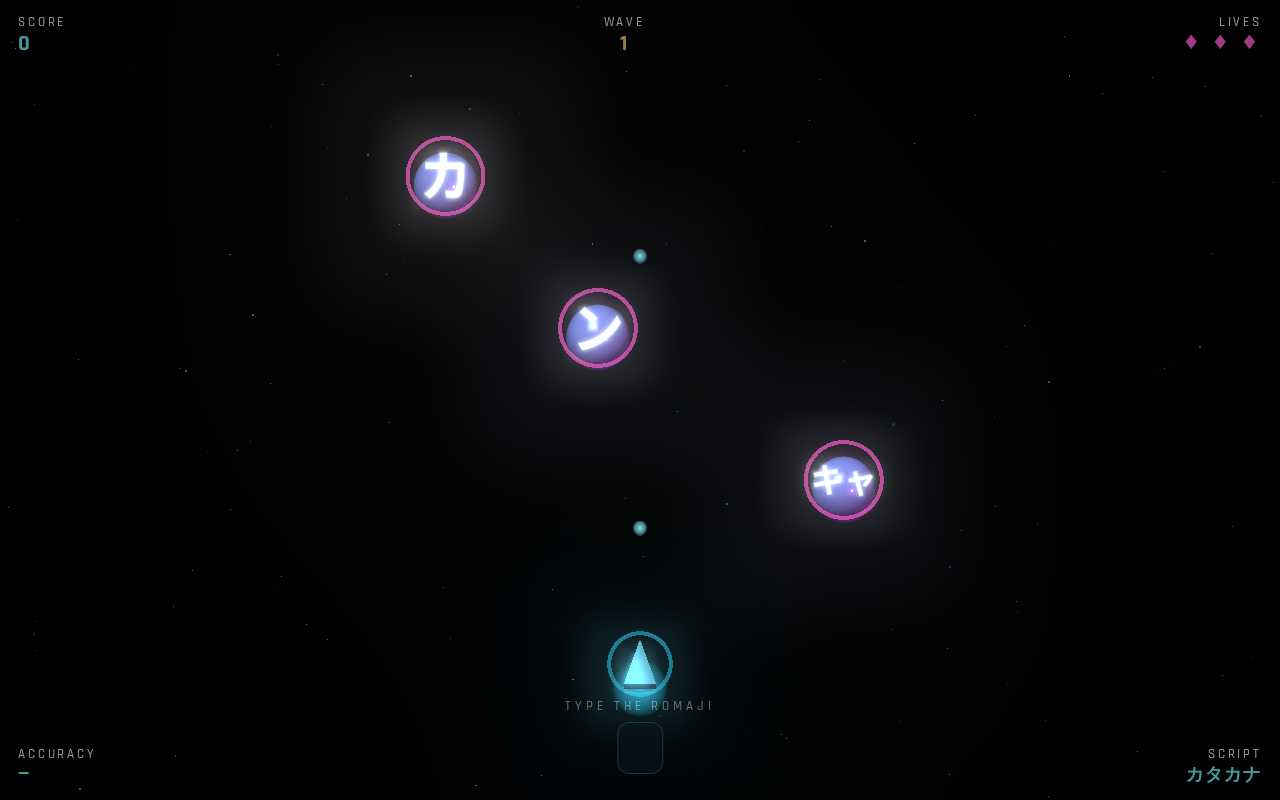
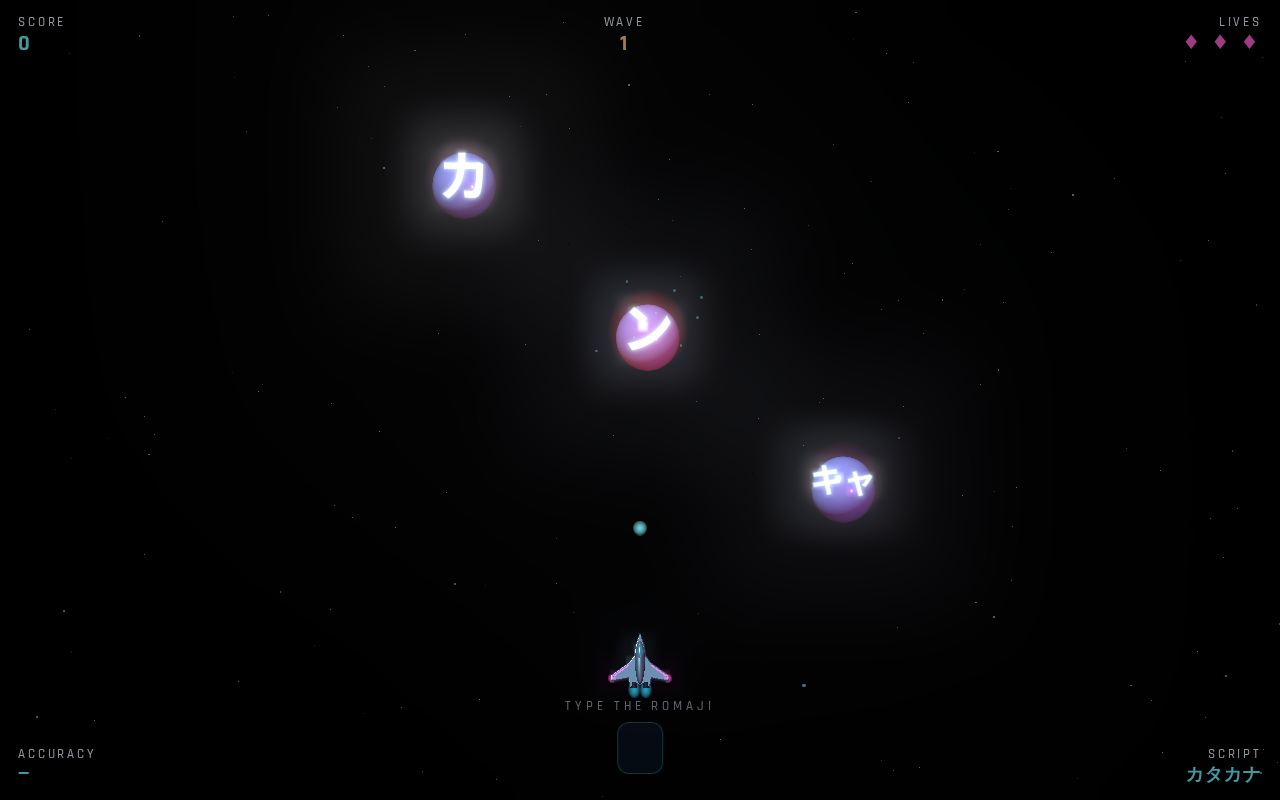
Drop the flat ring outlines, rebuild the player ship as a real fighter
The neon rings around the enemy bubbles and the player ship were 2D
vector-art leftovers that clashed with the lit 3D geometry. Removed both;
enemy state (target / near-match / wounded) now reads from the halo's
color and opacity plus the sphere's emissive tint, alongside the existing
scale pulse.

The ship was a bare cone, then a cylinder-and-boxes kit-bash that bloomed
out to white. It's now one beveled hull extruded from a fighter silhouette
(swept wings, notched tail), with a raised spine, glossy canopy, pink
leading-edge stripes and wingtip lights, and twin dark nozzles with tight
engine flames. The hull is mid-toned gunmetal with only a faint emissive so
the key light shades it instead of washing it out.

Claude-Session: https://claude.ai/code/session_019cpcKUdB5Yisp8d3dSsc5r

diff --git a/index.html b/index.html
@@ -609,32 +609,74 @@ function kanaTexture(glyph){
 /* ---------- player ---------- */
 const player = new THREE.Group();
 {
-  // A real lit hull, not a flat cutout: a 4-sided cone (apex already points
-  // +Y, "up the field") spun 45° so it presents a diamond-like cross-section.
-  // Emissive keeps it readable even on the shadowed side — unlike the enemy
-  // bubbles, the player's own ship always needs to stay clearly visible.
-  const body = new THREE.Mesh(
-    new THREE.ConeGeometry(2.9, 6.2, 4),
-    new THREE.MeshPhysicalMaterial({ color: 0x8bf7ff, emissive: 0x1b5a66, emissiveIntensity: 0.55,
-      roughness: 0.2, metalness: 0.4, clearcoat: 1, clearcoatRoughness: 0.1 })
-  );
-  body.rotation.y = Math.PI / 4;
-  player.add(body);
+  // One continuous hull extruded from a fighter silhouette, with a bevel so
+  // its edges catch the key light — reads as a machined airframe rather than
+  // primitives bolted together. Kept mid-toned with only a faint emissive so
+  // the lighting shows; a bright emissive hull just blooms out to white.
+  const half = [
+    [0, 3.7], [0.42, 2.3], [0.62, 0.9], [1.25, 0.05], [3.5, -1.55],
+    [3.55, -2.15], [1.35, -1.75], [1.15, -2.85], [0.45, -2.45], [0, -2.65],
+  ];
+  const outline = new THREE.Shape();
+  outline.moveTo(...half[0]);
+  for (let i = 1; i < half.length; i++) outline.lineTo(...half[i]);
+  for (let i = half.length - 2; i > 0; i--) outline.lineTo(-half[i][0], half[i][1]);
+  outline.closePath();
+  const hullGeo = new THREE.ExtrudeGeometry(outline, {
+    depth: 0.35, bevelEnabled: true, bevelThickness: 0.22, bevelSize: 0.18, bevelSegments: 4,
+  });
+  hullGeo.translate(0, 0, -0.2);
+  const hullMat = new THREE.MeshPhysicalMaterial({ color: 0x485c6e, emissive: 0x0b2632, emissiveIntensity: 0.5,
+    roughness: 0.38, metalness: 0.7, clearcoat: 0.7, clearcoatRoughness: 0.18 });
+  player.add(new THREE.Mesh(hullGeo, hullMat));
 
-  const ring = new THREE.Mesh(
-    new THREE.RingGeometry(3.6, 4.1, 40),
-    new THREE.MeshBasicMaterial({ color: 0x2fb7d6, transparent: true, opacity: 0.5,
-      side: THREE.DoubleSide, blending: THREE.AdditiveBlending, depthWrite: false })
-  );
-  player.add(ring);
-  player.userData.ring = ring;
+  // Raised spine down the centreline gives the hull real volume under the tilt.
+  const spine = new THREE.Mesh(new THREE.SphereGeometry(1, 24, 16), hullMat);
+  spine.scale.set(0.62, 2.7, 0.55);
+  spine.position.set(0, 0.1, 0.45);
+  player.add(spine);
 
-  const eng = new THREE.Sprite(new THREE.SpriteMaterial({
-    map: GLOW_TEX, color: 0x36d6ff, transparent: true, opacity: 0.75,
-    blending: THREE.AdditiveBlending, depthWrite: false,
-  }));
-  eng.scale.set(7, 7, 1); eng.position.set(0, -3, 0);
-  player.add(eng);
+  const canopy = new THREE.Mesh(
+    new THREE.SphereGeometry(1, 24, 16),
+    new THREE.MeshPhysicalMaterial({ color: 0x0c2a3a, emissive: 0x2bb8e6, emissiveIntensity: 0.35,
+      roughness: 0.04, metalness: 0.2, clearcoat: 1, clearcoatRoughness: 0.02 })
+  );
+  canopy.scale.set(0.36, 0.95, 0.34);
+  canopy.position.set(0, 1.25, 0.82);
+  player.add(canopy);
+
+  // Accent stripes inset along each wing's leading edge, plus wingtip lights.
+  const accentMat = new THREE.MeshPhysicalMaterial({ color: 0xff5fd2, emissive: 0xff3fc0, emissiveIntensity: 0.5,
+    roughness: 0.3, metalness: 0.3, clearcoat: 1 });
+  const lead = new THREE.Vector2(3.5 - 1.25, -1.55 - 0.05);
+  const leadAngle = Math.atan2(lead.y, lead.x);
+  for (const sx of [-1, 1]){
+    const stripe = new THREE.Mesh(new THREE.BoxGeometry(lead.length() * 0.85, 0.16, 0.06), accentMat);
+    stripe.position.set(sx * (1.25 + 3.5) / 2, (0.05 - 1.55) / 2 - 0.22, 0.38);
+    stripe.rotation.z = sx * leadAngle;
+    player.add(stripe);
+
+    const tip = new THREE.Sprite(new THREE.SpriteMaterial({
+      map: GLOW_TEX, color: 0xff5fd2, transparent: true, opacity: 0.9,
+      blending: THREE.AdditiveBlending, depthWrite: false,
+    }));
+    tip.scale.set(1.1, 1.1, 1); tip.position.set(sx * 3.5, -1.9, 0.4);
+    player.add(tip);
+  }
+
+  // Twin engines tucked into the tail notch: dark nozzle + hot core glow.
+  const nozzleMat = new THREE.MeshPhysicalMaterial({ color: 0x1a222c, roughness: 0.45, metalness: 0.85 });
+  for (const sx of [-1, 1]){
+    const nozzle = new THREE.Mesh(new THREE.CylinderGeometry(0.34, 0.42, 0.7, 14), nozzleMat);
+    nozzle.position.set(sx * 0.72, -2.75, 0.15);
+    player.add(nozzle);
+    const glow = new THREE.Sprite(new THREE.SpriteMaterial({
+      map: GLOW_TEX, color: 0x36d6ff, transparent: true, opacity: 0.75,
+      blending: THREE.AdditiveBlending, depthWrite: false,
+    }));
+    glow.scale.set(1.5, 2.1, 1); glow.position.set(sx * 0.72, -3.25, 0.15);
+    player.add(glow);
+  }
 }
 player.position.set(0, -30, 0);
 scene.add(player);
@@ -714,7 +756,7 @@ function spawnEnemy(entry, speed){
   const g = new THREE.Group();
 
   // The bubble's actual body: a real lit sphere (see the lights above), sunk
-  // behind the ring/glyph so its near cap sits just short of them — in the
+  // behind the glyph so its near cap sits just short of it — in the
   // orthographic camera its silhouette is still a full circle regardless of
   // that depth, so nothing about its on-screen size changes.
   const bubble = new THREE.Mesh(
@@ -734,29 +776,18 @@ function spawnEnemy(entry, speed){
   plane.position.z = 1;
   // Billboarded against the camera's fixed tilt so the glyph itself stays
   // perfectly square-on and legible — the drill depends on reading it at a
-  // glance, so only the ring/bubble/halo should show the tilt, not the text.
+  // glance, so only the bubble/halo should show the tilt, not the text.
   plane.rotation.x = CAM_TILT;
   g.add(plane);
 
-  const ring = new THREE.Mesh(
-    // Held clear of the sphere's own radius (4) with a visible gap, instead of
-    // overlapping its edge — sitting right on the silhouette made the ring
-    // read as a coin's rim and hid the one strip of bare, shaded surface that
-    // would otherwise sell "ball", not "disc".
-    new THREE.RingGeometry(4.5, 5.0, 40),
-    new THREE.MeshBasicMaterial({ color: 0xff5fd2, transparent: true, opacity: 0.7,
-      side: THREE.DoubleSide, blending: THREE.AdditiveBlending, depthWrite: false })
-  );
-  // Left flat (world-plane) on purpose: the camera's own tilt is what makes
-  // it read as an ellipse wrapping the sphere now, not a per-object hack.
-  g.add(ring);
-
   const halo = new THREE.Sprite(new THREE.SpriteMaterial({
-    map: GLOW_TEX, color: 0xff5fd2, transparent: true, opacity: 0.07,
+    map: GLOW_TEX, color: 0xff5fd2, transparent: true, opacity: 0.16,
     blending: THREE.AdditiveBlending, depthWrite: false,
   }));
-  // Smaller and dimmer than before — this used to wash additively right over
-  // the sphere's face and flatten its lit gradient into a uniform glow disc.
+  // No flat ring outline any more — state (targeting/wounded/near-match) is
+  // read from this halo's color/opacity and the sphere's own emissive tint
+  // instead, so the bubble stays a solid 3D object instead of a 2D glyph
+  // wearing a vector-art hoop.
   halo.scale.set(10, 10, 1); halo.position.z = -1;
   g.add(halo);
 
@@ -765,7 +796,7 @@ function spawnEnemy(entry, speed){
   scene.add(g);
 
   enemies.push({
-    g, bubble, plane, ring, halo, entry,
+    g, bubble, plane, halo, entry,
     x0: x, y: g.position.y,
     speed, drift: 0.5 + Math.random() * 1.1,
     phase: Math.random() * Math.PI * 2,
@@ -1227,7 +1258,6 @@ function update(dt){
   // Floor is -33, not the screen edge: the typed-romaji box occupies the bottom
   // ~12% of the view, and flying the ship down into it looks like a collision.
   player.position.y = THREE.MathUtils.clamp(player.position.y, -33, -8);
-  player.userData.ring.rotation.z += dt * 0.7;
 
   if (S.invuln > 0){
     S.invuln -= dt;
@@ -1270,7 +1300,6 @@ function update(dt){
     e.age += dt;
     e.g.position.y -= e.speed * dt;
     e.g.position.x = e.x0 + Math.sin(e.age * e.drift + e.phase) * 5.5;
-    e.ring.rotation.z -= dt * 0.9;
 
     // Wounded: a shot connected, typing it now (not required) scores a bonus.
     // Miss the window and it regenerates — no penalty, just an opportunity gone.
@@ -1287,20 +1316,18 @@ function update(dt){
       // Pulses faster as the window runs out — a visible countdown to "regenerates".
       const urgency = 1 - e.woundTimer / WOUND_DURATION;
       const pulse = 0.55 + 0.45 * Math.sin(e.age * (6 + urgency * 10));
-      e.ring.material.color.setHex(0xff3344);
-      e.ring.material.opacity = pulse;
       e.halo.material.color.setHex(0xff3344);
+      e.halo.material.opacity = 0.16 + pulse * 0.26;
       // Emissive stays faint even here — a flat wash this strong was what
       // erased the sphere's lit gradient and made it read as a flat tile.
-      // The ring/halo flashing red already carries the "wounded" signal.
+      // The halo flashing red already carries the "wounded" signal.
       e.bubble.material.emissive.setHex(0xff3344);
       e.bubble.material.emissiveIntensity = pulse * 0.22;
     } else {
-      e.ring.material.color.setHex(isTarget ? 0x7dffb0 : nearMatch ? 0x9ff6ff : 0xff5fd2);
-      e.ring.material.opacity = isTarget ? 1 : nearMatch ? 0.85 : 0.6;
-      e.halo.material.color.setHex(isTarget ? 0x7dffb0 : 0xff5fd2);
-      e.bubble.material.emissive.setHex(isTarget ? 0x7dffb0 : 0xff5fd2);
-      e.bubble.material.emissiveIntensity = isTarget ? 0.1 : 0.04;
+      e.halo.material.color.setHex(isTarget ? 0x7dffb0 : nearMatch ? 0x9ff6ff : 0xff5fd2);
+      e.halo.material.opacity = isTarget ? 0.4 : nearMatch ? 0.3 : 0.16;
+      e.bubble.material.emissive.setHex(isTarget ? 0x7dffb0 : nearMatch ? 0x9ff6ff : 0xff5fd2);
+      e.bubble.material.emissiveIntensity = isTarget ? 0.16 : nearMatch ? 0.1 : 0.04;
     }
 
     // Escaped the field.
